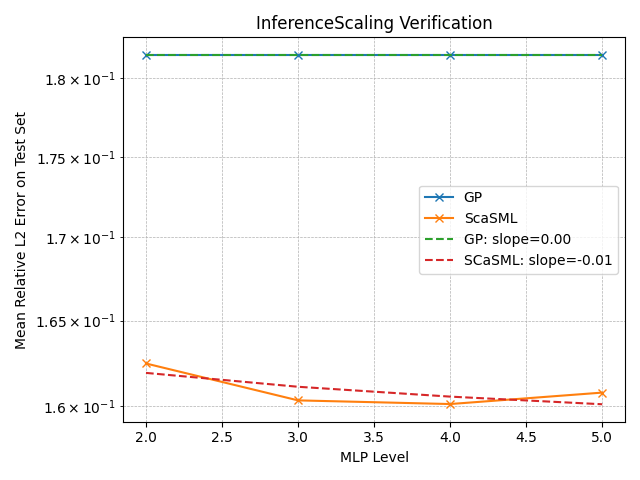
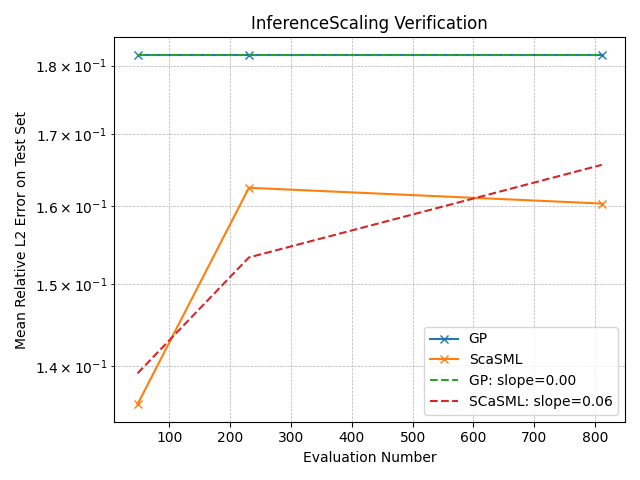
Update InferenceScaling

diff --git a/tests/InferenceScaling.py b/tests/InferenceScaling.py
@@ -44,7 +44,7 @@ class InferenceScaling(object):
         self.t0 = equation.t0  # equation.t0: float
         self.T = equation.T  # equation.T: float
 
-    def test(self, save_path, rhomax=5, n_samples=500):
+    def test(self, save_path, rhomax=4, n_samples=500):
         '''
         Compares solvers on different training iterations.
     
@@ -86,11 +86,10 @@ class InferenceScaling(object):
         # Fix GN_steps
         GN_steps = 1000 
         # Build a list for training sizes
-        list_len = rhomax-1
+        list_len = rhomax -1 
         train_sizes_domain = 500
         train_sizes_boundary = 100
-        rho_list = range(2, rhomax+1)
-        rho_array = np.array(rho_list)
+        eval_counter_list = []
         error1_list = []
         # error2_list = []
         error3_list = []
@@ -110,7 +109,7 @@ class InferenceScaling(object):
     
         for j in range(list_len):
 
-            rho = rho_list[j]
+            rho = j + 1
 
             # Print current rho value
             print(f"Current rho value: {rho}")
@@ -136,6 +135,8 @@ class InferenceScaling(object):
             error1_list.append(error_value1)
             # error2_list.append(error_value2)
             error3_list.append(error_value3)
+
+            eval_counter_list.append(self.solver3.evaluation_counter)
         
         # Plot error ratios
         plt.figure()
@@ -144,13 +145,14 @@ class InferenceScaling(object):
         error1_array = np.array(error1_list)
         # error2_array = np.array(error2_list)
         error3_array = np.array(error3_list)
+        evaluation_counter_array = np.array(eval_counter_list)
 
-        plt.plot(rho_array, error1_array, marker='x', linestyle='-', label='GP')
-        # plt.plot(rho_array, error2_array, marker='x', linestyle='-', label='MLP')
-        plt.plot(rho_array, error3_array, marker='x', linestyle='-', label='ScaSML')
+        plt.plot(evaluation_counter_array, error1_array, marker='x', linestyle='-', label='GP')
+        # plt.plot(evaluation_counter_array, error2_array, marker='x', linestyle='-', label='MLP')
+        plt.plot(evaluation_counter_array, error3_array, marker='x', linestyle='-', label='ScaSML')
         
         # Fit lines to compute slopes
-        log_GN_steps = np.log10(rho_array + epsilon)
+        log_GN_steps = np.log10(evaluation_counter_array + epsilon)
         log_error1 = np.log10(error1_array+ epsilon)
         # log_error2 = np.log10(error2_array+ epsilon)
         log_error3 = np.log10(error3_array+ epsilon) 
@@ -161,16 +163,16 @@ class InferenceScaling(object):
         # fitted_line2 = 10 ** (intercept2 + slope2 * log_GN_steps)
         fitted_line3 = 10 ** (intercept3 + slope3 * log_GN_steps)
         
-        plt.plot(rho_array, fitted_line1, linestyle='--', label=f'GP: slope={slope1:.2f}')
-        # plt.plot(rho_array, fitted_line2, linestyle='--', label=f'MLP: slope={slope2:.2f}')
-        plt.plot(rho_array, fitted_line3, linestyle='--', label=f'SCaSML: slope={slope3:.2f}')
+        plt.plot(evaluation_counter_array, fitted_line1, linestyle='--', label=f'GP: slope={slope1:.2f}')
+        # plt.plot(evaluation_counter_array, fitted_line2, linestyle='--', label=f'MLP: slope={slope2:.2f}')
+        plt.plot(evaluation_counter_array, fitted_line3, linestyle='--', label=f'SCaSML: slope={slope3:.2f}')
 
         plt.yscale('log')
 
         plt.legend()
         plt.grid(True, which="both", ls="--", linewidth=0.5)
         
-        plt.xlabel('MLP Level')
+        plt.xlabel('Evaluation Number')
         plt.ylabel('Mean Relative L2 Error on Test Set')
         plt.title('InferenceScaling Verification')
 
